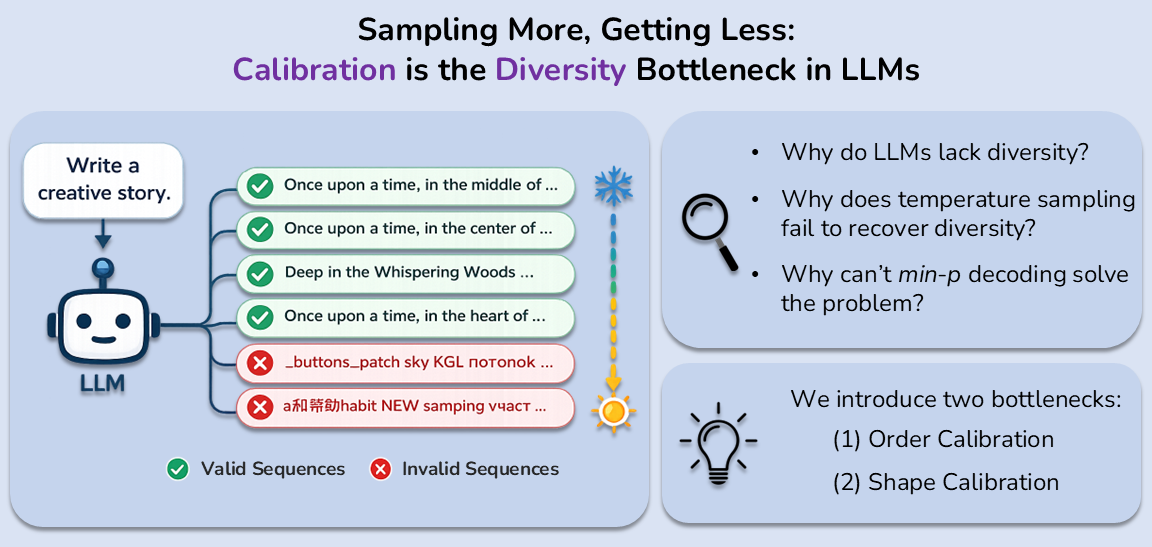
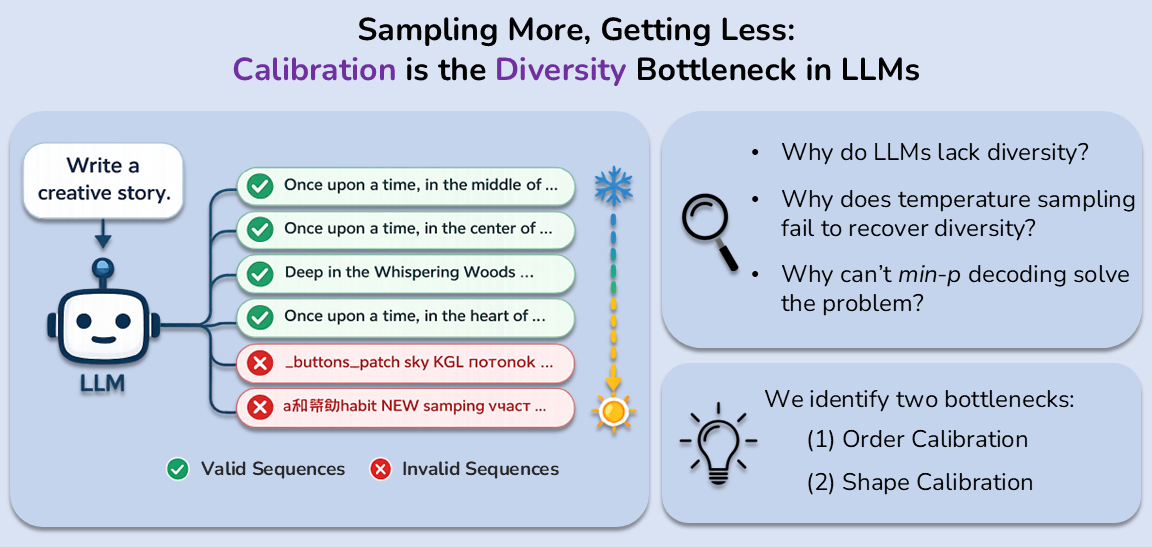
fix: update Open Graph image and improve layout for section descriptions

diff --git a/index.html b/index.html
@@ -99,7 +99,7 @@
     .paper-section-lede {
       color: #333;
       font-size: clamp(0.98rem, 1.65vw, 1.12rem);
-      line-height: 1.65;
+      line-height: 1.55;
     }
 
     .paper-body-copy {
@@ -2361,8 +2361,10 @@
           <div class="columns is-centered has-text-centered">
             <div class="column is-full">
               <h2 class="title is-3 paper-section-title">1. Order Calibration</h2>
-              <p class="subtitle is-6 paper-section-lede">Valid tokens are not reliably ranked above invalid tokens. Any cutoff strategy inevitably drops many valid tokens (low recall) or includes many invalid ones (low precision).</p>
-
+              <div class="paper-body-copy">
+              <p>Valid tokens are not reliably ranked above invalid tokens. Any cutoff strategy inevitably drops many valid tokens (low recall) or includes many invalid ones (low precision).</p>
+              </div>
+              </br>
               <div class="up-plot-wrap">
                 <div class="up-model-control">
                   <button class="up-model-button" id="upModelLeftButton" type="button" aria-label="Previous upper model">
@@ -2499,8 +2501,10 @@
           <div class="columns is-centered has-text-centered">
             <div class="column is-full">
               <h2 class="title is-3 paper-section-title" style="margin-top: 10px;">2. Shape Calibration</h2>
-              <p class="subtitle is-6 paper-section-lede">Model's distribution has a sharp drop in the head, and a heavy, long tail. At low temperature, only a few tokens are dominant. Increasing temperature shifts the distribution mass towards the tail, but since invalid tokens vastly outnumber valid ones, they grow much faster with temperature and other valid tokens remain suppressed.</p>
-
+              <div class="paper-body-copy">
+                <p>Model's distribution has a sharp drop in the head, and a heavy, long tail. At low temperature, only a few tokens are dominant. Increasing temperature shifts the distribution mass towards the tail, but since invalid tokens vastly outnumber valid ones, they grow much faster with temperature and other valid tokens remain suppressed.</p>
+              </div>
+              </br>
               <div class="down-plot-wrap">
                 <div class="down-model-control">
                   <button class="down-model-button" id="downModelLeftButton" type="button" aria-label="Previous down model">
